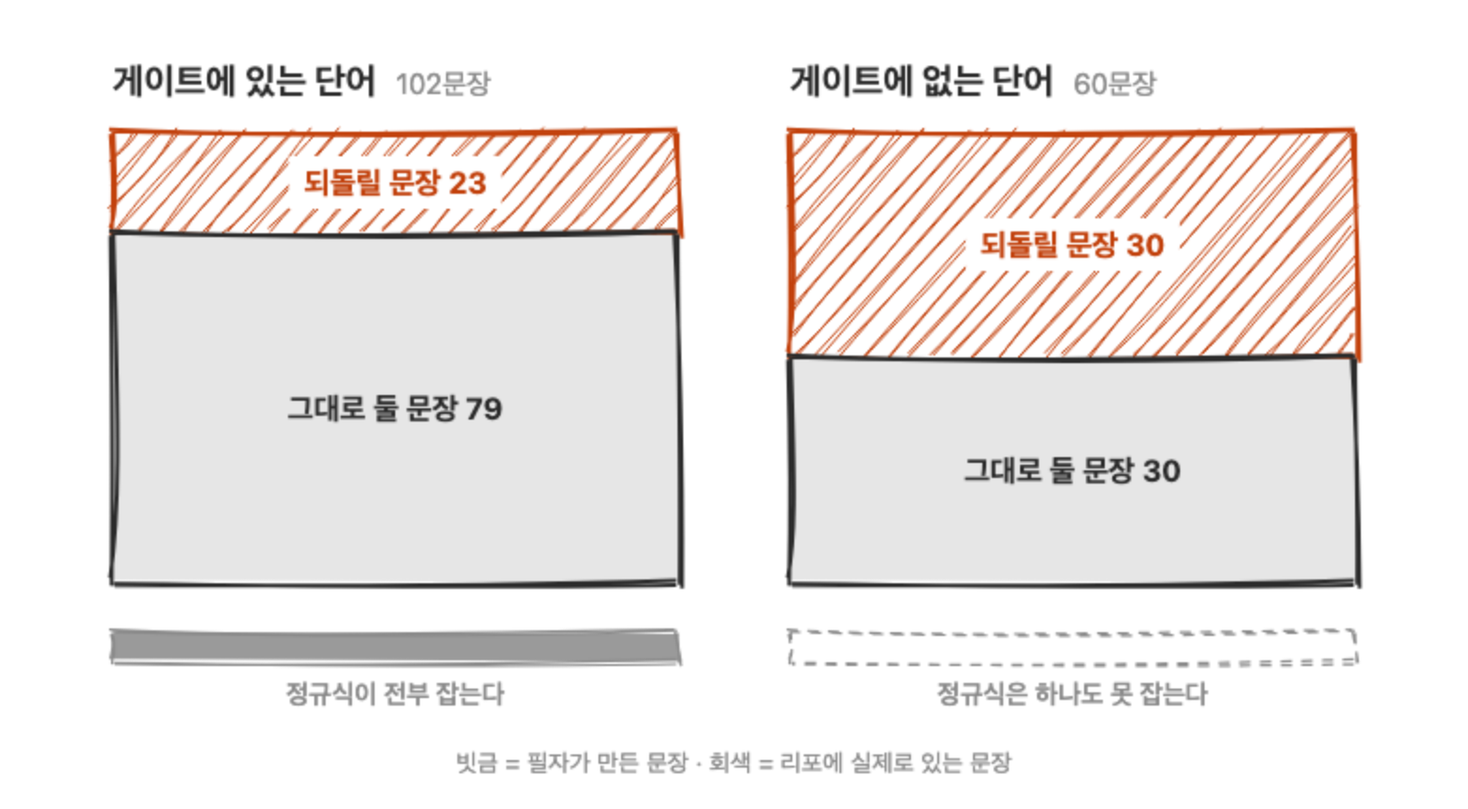
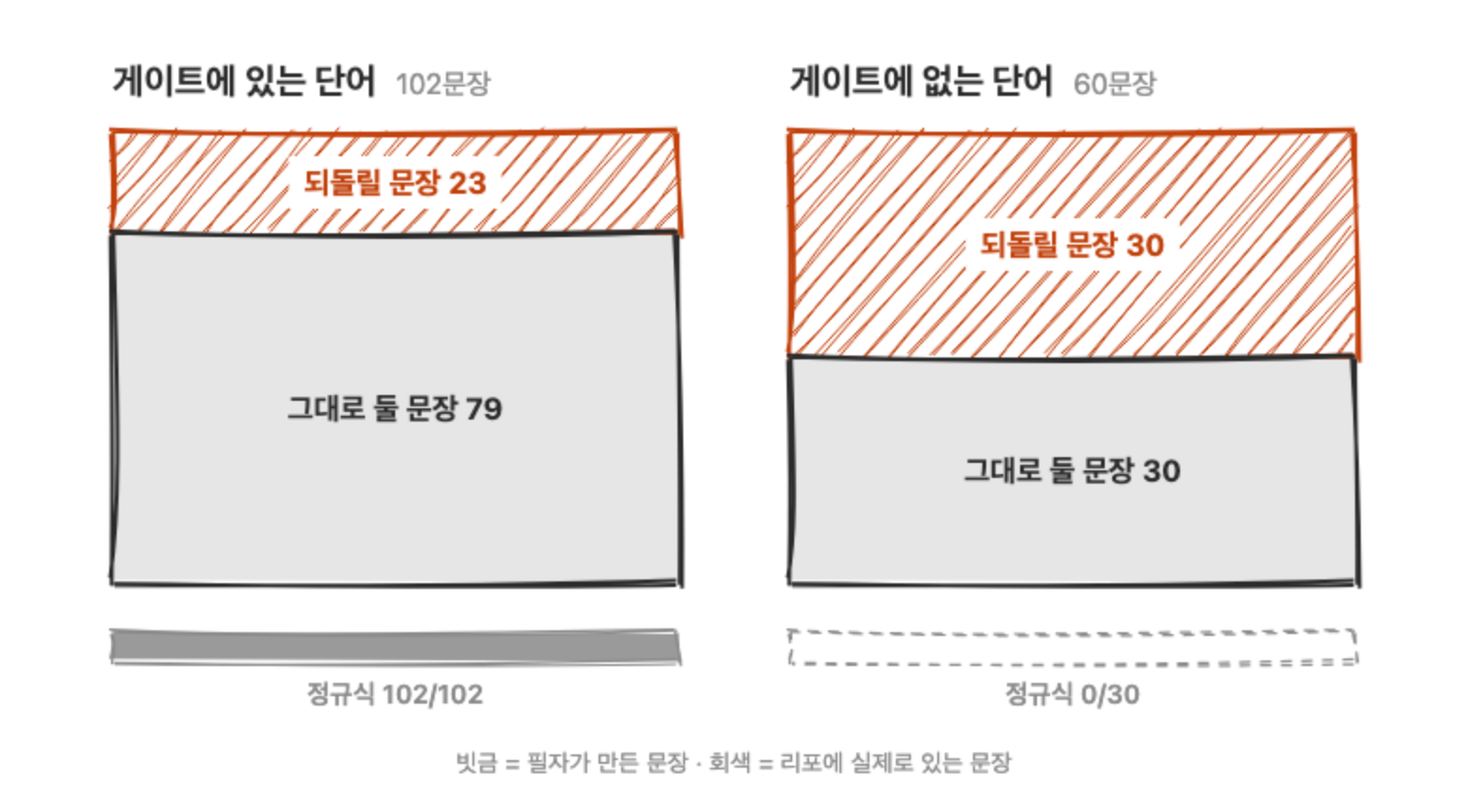
fix(content): take sentences out of 260922 figures and align 240706
Four 260922 figures keep only labels and numbers. The 240706
translations drop hedges the Korean does not have. write-post.md now
says generator HTML files are committed next to their PNGs.

Changed region(s): [[0.6154, 0.8465, 0.8308, 0.8767], [0.1846, 0.8465, 0.3692, 0.8767]]

diff --git a/content/260922/6.html b/content/260922/6.html
@@ -8,8 +8,8 @@ const F=(s,x,y,size,color,weight)=>{ctx.fillStyle=color||ink;ctx.font=(weight||'
 const W=(s,size,weight)=>{ctx.font=(weight||'')+' '+size+'px '+FONT;return ctx.measureText(s).width;};
 const C=(s,cx,y,size,color,weight)=>F(s,cx-W(s,size,weight)/2,y,size,color,weight);
 const arrow=(x1,y1,x2,y2,col,w)=>{const st={...o,stroke:col||ink,strokeWidth:w||2.4};rc.line(x1,y1,x2,y2,st);const a=Math.atan2(y2-y1,x2-x1),L=12;rc.line(x2,y2,x2-L*Math.cos(a-0.4),y2-L*Math.sin(a-0.4),st);rc.line(x2,y2,x2-L*Math.cos(a+0.4),y2-L*Math.sin(a+0.4),st);};
-const sets=[{x:60,t:'게이트에 있는 단어',s:'102문장',pos:23,neg:79,rx:'정규식이 전부 잡는다'},
-            {x:420,t:'게이트에 없는 단어',s:'60문장',pos:30,neg:30,rx:'정규식은 하나도 못 잡는다'}];
+const sets=[{x:60,t:'게이트에 있는 단어',s:'102문장',pos:23,neg:79,rx:'정규식 102/102'},
+            {x:420,t:'게이트에 없는 단어',s:'60문장',pos:30,neg:30,rx:'정규식 0/30'}];
 sets.forEach(({x,t,s,pos,neg,rx})=>{
   const w=300,top=70,h=240,tot=pos+neg,ph=Math.round(h*pos/tot),nh=h-ph;
   F(t,x,50,19,ink,'700'); F(s,x+W(t,19,'700')+10,50,15,gray);

diff --git a/content/260922/4.html b/content/260922/4.html
@@ -33,6 +33,4 @@ rc.line(ax(p),yA+10,ax(c),yB-10,{...o, strokeWidth:2.2, stroke:hi});
 // 회색: 1/3 아래는 버려진다
 rc.rectangle(ax(0),yA-6,ax(u)-ax(0),12,{...o, fill:'#e0e0e0', fillStyle:'solid', stroke:'none'});
 C('버린다',ax(u/2),yA+30,14,gray);
-// 한 줄 설명
-C("1/K 를 0 으로, 1 을 1 로 당겨 놓은 눈금. 순서는 그대로다",440,380,15,ink);
 </script>

diff --git a/content/260922/7.html b/content/260922/7.html
@@ -27,6 +27,5 @@ rows.forEach(({y,label,tok,rev,keep})=>{
 });
 // 화살표: 전부 되돌린다 → 대체로 둔다
 arrow(430,160,430,222,gray,2);
-F('답이 「전부 되돌린다」에서 「대체로 둔다」로 기울었다. 맞힌 수는 같다',30,360,14,ink);
 F('채운 부분 = 맞힌 문장',30,388,13,gray);
 </script>

diff --git a/content/260922/5.html b/content/260922/5.html
@@ -27,5 +27,4 @@ rows.forEach(([n,a,c,e],i)=>{
 // 확신도 몰림 표시
 const yTop=84-22, yBot=84+(rows.length-1)*46+22;
 rc.rectangle(ax(0.851),yTop,ax(0.906)-ax(0.851),yBot-yTop,{...o, stroke:hi, strokeWidth:1.4, strokeLineDash:[6,5]});
-C('확신도는 여기 몰려 있다',ax(0.878),yBot+42,14,hi,'600');
 </script>

diff --git a/content/240706/index.es.md b/content/240706/index.es.md
@@ -34,7 +34,7 @@ ZIP es un formato creado por Phil Katz en 1989. En su interior suele usar **DEFL
 
 ZIP **comprime cada archivo por separado**. Esta estructura, en la que cada archivo se comprime de forma independiente, se conoce como archivo no sólido (Non-solid Archive). El enfoque opuesto, que une todos los archivos en un solo flujo y lo comprime de una vez, es el archivo sólido. Gracias a la estructura no sólida, es posible extraer un archivo concreto sin descomprimir los demás. Como contrapartida, no aprovecha datos repetidos entre archivos, por lo que puede obtener una tasa inferior a tar.gz, que veremos más adelante.
 
-Windows, macOS, Linux y la mayoría de los sistemas operativos lo admiten sin instalar software adicional. Por eso es una opción segura cuando importa la compatibilidad entre plataformas.
+Windows, macOS, Linux y la mayoría de los sistemas operativos lo admiten sin instalar software adicional. Por eso es la opción más segura cuando importa la compatibilidad entre plataformas.
 
 <hr>
 
@@ -56,13 +56,13 @@ En entornos Unix y Linux se utiliza como un estándar para distribuir código fu
 
 ZSTD es un algoritmo desarrollado por Yann Collet en Meta, antes Facebook, y publicado como código abierto en 2016. Su gran ventaja es que **comprime y descomprime mucho más rápido, manteniendo una tasa comparable a GZIP**.
 
-Su funcionamiento interno tiene tres grandes etapas. Primero, un **buscador de coincidencias (Match Finder)** de la familia LZ77 detecta patrones repetidos. Después codifica los literales, las longitudes y los desplazamientos encontrados como **secuencias**. Por último, comprime esas secuencias mediante **codificación entrópica**. En lugar de depender únicamente de Huffman como GZIP, utiliza **FSE (Finite State Entropy)**, un codificador basado en ANS (Asymmetric Numeral Systems). ANS actualiza un único estado entero cada vez que procesa un símbolo y emite menos bits cuanto más frecuente es el símbolo. Su objetivo es lograr una tasa de compresión cercana a la de la codificación aritmética (Arithmetic Coding) con una velocidad cercana a la de Huffman. Huffman solo puede asignar un número entero de bits por símbolo; FSE puede representar probabilidades equivalentes a bits fraccionarios y acercarse más al límite teórico. (A pesar del nombre, la idea esencial es expresar los mismos datos con menos bits de una manera más inteligente.)
+Su funcionamiento interno tiene tres grandes etapas. Primero, un **buscador de coincidencias (Match Finder)** de la familia LZ77 detecta patrones repetidos. Después codifica los literales, las longitudes y los desplazamientos encontrados como **secuencias**. Por último, comprime esas secuencias mediante **codificación entrópica**. En lugar de la codificación Huffman de GZIP, utiliza **FSE (Finite State Entropy)**, un codificador basado en ANS (Asymmetric Numeral Systems). ANS actualiza un único estado entero cada vez que procesa un símbolo y emite menos bits cuanto más frecuente es el símbolo. Su objetivo es lograr una tasa de compresión cercana a la de la codificación aritmética (Arithmetic Coding) con una velocidad cercana a la de Huffman. Huffman solo puede asignar un número entero de bits por símbolo; FSE puede representar probabilidades equivalentes a bits fraccionarios y acercarse más al límite teórico. (A pesar del nombre, la idea esencial es expresar los mismos datos con menos bits de una manera más inteligente.)
 
 El buscador también cambia de estrategia según el nivel. Los niveles bajos, del 1 al 4, usan tablas hash sencillas para ganar velocidad. Los intermedios, del 5 al 12, comparan varios candidatos mediante una estrategia Lazy. Los altos, del 13 al 22, recurren a árboles binarios y programación dinámica para encontrar coincidencias casi óptimas. Esta escala permite usar niveles bajos para transmisión en tiempo real y altos para archivo.
 
-En el benchmark Silesia Corpus, ZSTD en su nivel predeterminado 3 comprime a unos 300 MB/s y descomprime a unos 1.200 MB/s. GZIP en el nivel 6 alcanza apenas 34 MB/s y 380 MB/s, respectivamente. **ZSTD comprime unas ocho veces más rápido y descomprime unas tres, mientras obtiene una tasa ligeramente superior: 3,17 frente a 3,09 de GZIP.** Estas cifras muestran de forma directa cómo mejora el compromiso tradicional.
+En el benchmark Silesia Corpus, ZSTD en su nivel predeterminado 3 comprime a unos 300 MB/s y descomprime a unos 1.200 MB/s. GZIP en el nivel 6 alcanza apenas 34 MB/s y 380 MB/s, respectivamente. **ZSTD comprime unas ocho veces más rápido y descomprime unas tres, y aun así su tasa es superior: 3,17 frente a 3,09 de GZIP.** Estas cifras muestran de forma directa cómo mejora el compromiso tradicional.
 
-Su adopción crece con rapidez. Se usa para comprimir módulos del kernel de Linux y de forma transparente en sistemas de archivos; distribuciones como Arch Linux, Fedora, Debian y Ubuntu lo han adoptado para sus paquetes. Desde la versión 1.5.7, publicada en febrero de 2025, la **compresión multihilo está activada de forma predeterminada** con hasta cuatro hilos, ampliando aún más la diferencia práctica frente al GZIP monohilo. AWS también ha explicado que redujo alrededor de un 30% el almacenamiento en S3 al migrar servicios internos de gzip a zstd.
+Su adopción crece con rapidez. Se usa para comprimir módulos del kernel de Linux y de forma transparente en sistemas de archivos; distribuciones como Arch Linux, Fedora, Debian y Ubuntu lo han adoptado como formato predeterminado de compresión de paquetes. Desde la versión 1.5.7, publicada en febrero de 2025, la **compresión multihilo está activada de forma predeterminada** con hasta cuatro hilos, ampliando aún más la diferencia práctica frente al GZIP monohilo. AWS también ha explicado que redujo alrededor de un 30% el almacenamiento en S3 al migrar servicios internos de gzip a zstd.
 
 <hr>
 
@@ -78,7 +78,7 @@ BZIP2 comprime mediante una cadena de transformaciones.
 
 BZIP2 proporciona una tasa mayor que GZIP, pero tanto la compresión como la descompresión son más lentas. Se ha usado para archivo cuando el tamaño importaba más que la velocidad.
 
-Su última versión fue la 1.0.8, publicada en 2019, y el desarrollo activo prácticamente se ha detenido. A medida que los benchmarks muestran que ZSTD supera a BZIP2 en tasa y velocidad, los proyectos nuevos tienden a elegir ZSTD.
+Su última versión fue la 1.0.8, publicada en 2019, y no está en desarrollo activo. A medida que los benchmarks muestran que ZSTD supera a BZIP2 en tasa y velocidad, los proyectos nuevos tienden a elegir ZSTD.
 
 <hr>
 
@@ -100,7 +100,7 @@ Su organización interna es sorprendentemente sencilla. Todo se procesa en **blo
 
 La propiedad clave es que TAR conserva **los metadatos del sistema de archivos Unix**, como permisos, propietarios, marcas de tiempo y enlaces simbólicos. ZIP no siempre conserva perfectamente estos datos específicos de Unix, por lo que TAR suele encajar mejor en despliegues de servidor.
 
-TAR no reduce el tamaño por sí mismo; las cabeceras y el relleno pueden incluso aumentarlo ligeramente. La compresión real se consigue al combinarlo con GZIP, BZIP2, XZ o ZSTD. De ahí proceden extensiones como `.tar.gz`, `.tar.bz2`, `.tar.xz` y `.tar.zst`. TAR se encarga de “agrupar” y la otra herramienta de “reducir”, un ejemplo clásico de la filosofía Unix de “hacer bien una sola cosa”.
+TAR no reduce el tamaño por sí mismo; de hecho, las cabeceras y el relleno lo hacen ligeramente mayor que el original. La compresión real se consigue al combinarlo con GZIP, BZIP2, XZ o ZSTD. De ahí proceden extensiones como `.tar.gz`, `.tar.bz2`, `.tar.xz` y `.tar.zst`. TAR se encarga de “agrupar” y la otra herramienta de “reducir”, un ejemplo clásico de la filosofía Unix de “hacer bien una sola cosa”.
 
 Es el método estándar de archivado en Unix/Linux, mientras que Windows puede necesitar software adicional como 7-Zip.
 
@@ -137,7 +137,7 @@ Añadí esta sección en 2026. Entonces escogí tar.gz por su compatibilidad y e
 
 Si afrontara hoy la misma situación, consideraría seriamente **tar.zst (TAR + ZSTD)**. Recordemos las cifras anteriores.
 
-GZIP comprime a 34 MB/s en su nivel predeterminado y ZSTD a 300 MB/s. Para una carpeta de 2 GB, un cálculo simple da unos 60 segundos con GZIP y siete con ZSTD. Si además contamos el multihilo activado por defecto desde ZSTD v1.5.7, con hasta cuatro hilos, la diferencia real puede ser mayor. En una canalización CI/CD esos segundos se acumulan en cada despliegue.
+GZIP comprime a 34 MB/s en su nivel predeterminado y ZSTD a 300 MB/s. Para una carpeta de 2 GB, un cálculo simple da unos 60 segundos con GZIP y siete con ZSTD. Si además contamos el multihilo activado por defecto desde ZSTD v1.5.7, con hasta cuatro hilos, el tiempo real es todavía menor. En una canalización CI/CD esta diferencia se acumula en cada despliegue, así que no es una cifra despreciable.
 
 ```sh
 # tar.zst 생성 (멀티스레드 자동 활용)

diff --git a/content/240706/index.pt-BR.md b/content/240706/index.pt-BR.md
@@ -34,7 +34,7 @@ ZIP é um formato criado por Phil Katz em 1989. Internamente, costuma usar **DEF
 
 O ZIP **comprime cada arquivo individualmente**. Essa estrutura, em que cada arquivo é comprimido separadamente, é chamada de arquivo não sólido (Non-solid Archive). A abordagem oposta, que junta todos os arquivos em um único fluxo e o comprime de uma vez, é o arquivo sólido. Graças à estrutura não sólida, é possível extrair um arquivo específico sem descompactar os demais. Em contrapartida, não aproveita dados duplicados entre arquivos, por isso sua taxa pode ser inferior à do tar.gz, que veremos adiante.
 
-Windows, macOS, Linux e a maioria dos sistemas operacionais oferecem suporte sem software adicional. Por isso, é uma escolha segura quando a compatibilidade entre plataformas é importante.
+Windows, macOS, Linux e a maioria dos sistemas operacionais oferecem suporte sem software adicional. Por isso, é a escolha mais segura quando a compatibilidade entre plataformas é importante.
 
 <hr>
 
@@ -56,13 +56,13 @@ Em ambientes Unix e Linux, GZIP é usado como padrão para distribuir código-fo
 
 ZSTD é um algoritmo desenvolvido por Yann Collet na Meta, antiga Facebook, e publicado como código aberto em 2016. Sua principal vantagem é **comprimir e descomprimir muito mais rápido, mantendo uma taxa comparável à do GZIP**.
 
-Seu funcionamento tem três grandes etapas. Primeiro, um **localizador de correspondências (Match Finder)** da família LZ77 detecta padrões repetidos na entrada. Depois, codifica literais, comprimentos e deslocamentos como **sequências**. Por fim, comprime essas sequências com **codificação de entropia**. Em vez de depender apenas de Huffman como o GZIP, usa **FSE (Finite State Entropy)**, um codificador baseado em ANS (Asymmetric Numeral Systems). O ANS atualiza um único estado inteiro a cada símbolo processado e emite menos bits quanto mais frequente for o símbolo. O objetivo é alcançar uma taxa de compressão próxima à da codificação aritmética (Arithmetic Coding) com velocidade próxima à de Huffman. Huffman só consegue atribuir números inteiros de bits por símbolo; o FSE representa probabilidades equivalentes a bits fracionários e se aproxima mais do limite teórico. (Apesar do nome grandioso, a ideia é apenas expressar os mesmos dados com menos bits de forma mais inteligente.)
+Seu funcionamento tem três grandes etapas. Primeiro, um **localizador de correspondências (Match Finder)** da família LZ77 detecta padrões repetidos na entrada. Depois, codifica literais, comprimentos e deslocamentos como **sequências**. Por fim, comprime essas sequências com **codificação de entropia**. Em vez da codificação de Huffman do GZIP, usa **FSE (Finite State Entropy)**, um codificador baseado em ANS (Asymmetric Numeral Systems). O ANS atualiza um único estado inteiro a cada símbolo processado e emite menos bits quanto mais frequente for o símbolo. O objetivo é alcançar uma taxa de compressão próxima à da codificação aritmética (Arithmetic Coding) com velocidade próxima à de Huffman. Huffman só consegue atribuir números inteiros de bits por símbolo; o FSE representa probabilidades equivalentes a bits fracionários e se aproxima mais do limite teórico. (Apesar do nome grandioso, a ideia é apenas expressar os mesmos dados com menos bits de forma mais inteligente.)
 
 O localizador também muda de estratégia conforme o nível. Os níveis baixos, de 1 a 4, usam tabelas hash simples para priorizar velocidade. Os intermediários, de 5 a 12, comparam vários candidatos por uma estratégia Lazy. Os altos, de 13 a 22, usam árvores binárias e programação dinâmica para encontrar correspondências quase ideais. Essa faixa permite aplicar níveis baixos em transmissão em tempo real e altos em arquivamento.
 
-No benchmark Silesia Corpus, o nível padrão 3 do ZSTD comprime a cerca de 300 MB/s e descomprime a aproximadamente 1.200 MB/s. Já o nível padrão 6 do GZIP alcança apenas 34 MB/s e 380 MB/s. **O ZSTD comprime cerca de oito vezes mais rápido e descomprime três vezes mais rápido, enquanto sua taxa é ligeiramente melhor: 3,17 contra 3,09 do GZIP.** Esses números mostram com clareza como o ZSTD melhora o compromisso tradicional.
+No benchmark Silesia Corpus, o nível padrão 3 do ZSTD comprime a cerca de 300 MB/s e descomprime a aproximadamente 1.200 MB/s. Já o nível padrão 6 do GZIP alcança apenas 34 MB/s e 380 MB/s. **O ZSTD comprime cerca de oito vezes mais rápido e descomprime cerca de três vezes mais rápido, e ainda assim sua taxa é superior: 3,17 contra 3,09 do GZIP.** Esses números mostram com clareza como o ZSTD melhora o compromisso tradicional.
 
-A adoção cresceu rapidamente. O ZSTD é usado na compressão de módulos do kernel Linux e na compressão transparente de sistemas de arquivos; distribuições como Arch Linux, Fedora, Debian e Ubuntu o adotaram para pacotes. Desde a versão 1.5.7, lançada em fevereiro de 2025, a **compressão multithread fica ativada por padrão** com até quatro threads, ampliando ainda mais a diferença prática em relação ao GZIP single-thread. A AWS também informou ter reduzido em cerca de 30% o armazenamento no S3 ao migrar serviços internos de gzip para zstd.
+A adoção cresceu rapidamente. O ZSTD é usado na compressão de módulos do kernel Linux e na compressão transparente de sistemas de arquivos; distribuições como Arch Linux, Fedora, Debian e Ubuntu o adotaram como formato padrão de compressão de pacotes. Desde a versão 1.5.7, lançada em fevereiro de 2025, a **compressão multithread fica ativada por padrão** com até quatro threads, ampliando ainda mais a diferença prática em relação ao GZIP single-thread. A AWS também informou ter reduzido em cerca de 30% o armazenamento no S3 ao migrar serviços internos de gzip para zstd.
 
 <hr>
 
@@ -78,7 +78,7 @@ O BZIP2 comprime dados por uma sequência de transformações.
 
 O BZIP2 oferece taxa maior que o GZIP, mas tanto a compressão quanto a descompressão são mais lentas. Ele foi usado para arquivamento quando o tamanho importava mais do que a velocidade.
 
-Sua última versão foi a 1.0.8, em 2019, e o desenvolvimento ativo praticamente parou. Conforme benchmarks mostram que o ZSTD supera o BZIP2 em taxa e velocidade, projetos novos tendem a escolher ZSTD.
+Sua última versão foi a 1.0.8, em 2019, e não está em desenvolvimento ativo. Conforme benchmarks mostram que o ZSTD supera o BZIP2 em taxa e velocidade, projetos novos tendem a escolher ZSTD.
 
 <hr>
 
@@ -100,7 +100,7 @@ Sua organização interna é surpreendentemente simples. Tudo é processado em *
 
 A característica principal é preservar **metadados do sistema de arquivos Unix**, incluindo permissões, propriedade, timestamps e links simbólicos. ZIP nem sempre mantém perfeitamente esses dados específicos do Unix, por isso TAR costuma ser mais adequado para deploys em servidores.
 
-TAR não reduz o tamanho por conta própria; cabeçalhos e padding podem até deixar o resultado um pouco maior. A compressão real ocorre ao combiná-lo com GZIP, BZIP2, XZ ou ZSTD. É daí que vêm extensões como `.tar.gz`, `.tar.bz2`, `.tar.xz` e `.tar.zst`. TAR cuida de “agrupar”, e a outra ferramenta, de “reduzir”: um exemplo clássico da filosofia Unix de “fazer bem uma única coisa”.
+TAR não reduz o tamanho por conta própria; na verdade, cabeçalhos e padding deixam o resultado um pouco maior que o original. A compressão real ocorre ao combiná-lo com GZIP, BZIP2, XZ ou ZSTD. É daí que vêm extensões como `.tar.gz`, `.tar.bz2`, `.tar.xz` e `.tar.zst`. TAR cuida de “agrupar”, e a outra ferramenta, de “reduzir”: um exemplo clássico da filosofia Unix de “fazer bem uma única coisa”.
 
 É o método padrão de arquivamento em Unix/Linux, enquanto o Windows pode precisar de software adicional, como 7-Zip.
 
@@ -137,7 +137,7 @@ Adicionei esta seção em 2026. Na época, escolhi tar.gz por compatibilidade e 
 
 Se eu enfrentasse a mesma situação hoje, consideraria seriamente **tar.zst (TAR + ZSTD)**. Vale lembrar os números anteriores.
 
-O GZIP comprime a 34 MB/s no nível padrão, enquanto o ZSTD chega a 300 MB/s. Para uma pasta de 2 GB, uma conta simples resulta em aproximadamente 60 segundos com GZIP e sete com ZSTD. Considerando ainda o multithreading ativado por padrão desde o ZSTD v1.5.7, com até quatro threads, a diferença prática pode ser maior. Em uma pipeline de CI/CD, esses segundos se acumulam a cada deploy.
+O GZIP comprime a 34 MB/s no nível padrão, enquanto o ZSTD chega a 300 MB/s. Para uma pasta de 2 GB, uma conta simples resulta em aproximadamente 60 segundos com GZIP e sete com ZSTD. Considerando ainda o multithreading ativado por padrão desde o ZSTD v1.5.7, com até quatro threads, o tempo real fica ainda menor. Em uma pipeline de CI/CD, essa diferença se acumula a cada deploy, então não é um número desprezível.
 
 ```sh
 # tar.zst 생성 (멀티스레드 자동 활용)

diff --git a/content/240706/index.en.md b/content/240706/index.en.md
@@ -56,11 +56,11 @@ GZIP has long been a standard for distributing source code, compressing logs, an
 
 ZSTD is a compression algorithm developed by Yann Collet at Meta, formerly Facebook, and released as open source in 2016. Its main advantage is **dramatically faster compression and decompression while retaining a ratio comparable to GZIP**.
 
-ZSTD has three broad stages. First, an LZ77-family **match finder** detects repeated patterns in the input. It then encodes the results, including literals, match lengths, and offsets, as **sequences**. Finally, it compresses those sequences with **entropy coding**. Instead of relying only on GZIP-style Huffman coding, ZSTD uses **FSE (Finite State Entropy)**. FSE is an entropy coder based on ANS (Asymmetric Numeral Systems). ANS updates a single integer state each time it processes a symbol and emits fewer bits for more frequent symbols. Its goal is a compression ratio close to arithmetic coding at a speed close to Huffman coding. Huffman coding can assign only an integer number of bits per symbol, while FSE can represent fractional-bit probabilities and get closer to the theoretical optimum. (Despite the grand name, the key idea is simply a smarter way to express the same data with fewer bits.)
+ZSTD has three broad stages. First, an LZ77-family **match finder** detects repeated patterns in the input. It then encodes the results, including literals, match lengths, and offsets, as **sequences**. Finally, it compresses those sequences with **entropy coding**. Instead of GZIP-style Huffman coding, ZSTD uses **FSE (Finite State Entropy)**. FSE is an entropy coder based on ANS (Asymmetric Numeral Systems). ANS updates a single integer state each time it processes a symbol and emits fewer bits for more frequent symbols. Its goal is a compression ratio close to arithmetic coding at a speed close to Huffman coding. Huffman coding can assign only an integer number of bits per symbol, while FSE can represent fractional-bit probabilities and get closer to the theoretical optimum. (Despite the grand name, the key idea is simply a smarter way to express the same data with fewer bits.)
 
 The match finder also changes strategy with the compression level. Lower levels, from 1 to 4, use simple hash tables for speed. Middle levels, from 5 to 12, compare multiple candidates and lazily choose a better match. Higher levels, from 13 to 22, use binary trees and dynamic programming to find near-optimal matches. This broad range makes it possible to choose a low level for real-time transfer and a high level for archival work.
 
-On the Silesia Corpus benchmark, ZSTD’s default level 3 compresses at around 300 MB/s and decompresses at around 1,200 MB/s. GZIP’s default level 6 reaches only around 34 MB/s for compression and 380 MB/s for decompression. **ZSTD is roughly eight times faster at compression and three times faster at decompression, while its compression ratio is slightly better at 3.17 versus GZIP’s 3.09.** These figures make ZSTD’s improved trade-off easy to see.
+On the Silesia Corpus benchmark, ZSTD’s default level 3 compresses at around 300 MB/s and decompresses at around 1,200 MB/s. GZIP’s default level 6 reaches only around 34 MB/s for compression and 380 MB/s for decompression. **ZSTD is roughly eight times faster at compression and three times faster at decompression, while its compression ratio is even ahead at 3.17 versus GZIP’s 3.09.** These figures make ZSTD’s improved trade-off easy to see.
 
 Adoption has expanded quickly. ZSTD is used for Linux kernel module compression and transparent filesystem compression, and major distributions including Arch Linux, Fedora, Debian, and Ubuntu have adopted it as a default package format. Starting with v1.5.7, released in February 2025, **multithreaded compression is enabled by default** with up to four threads, further widening the practical speed gap with single-threaded GZIP. AWS has also reported reducing S3 storage by about 30% after switching internal services from gzip to zstd.
 
@@ -78,7 +78,7 @@ BZIP2 compresses data through a pipeline of transformations.
 
 BZIP2 offers a higher compression ratio than GZIP, but both compression and decompression are slower. It has traditionally been used for archival work where size matters more than speed.
 
-Its latest release was v1.0.8 in 2019, and active development has largely stopped. As benchmarks increasingly show ZSTD outperforming BZIP2 in both ratio and speed, new projects are more likely to choose ZSTD.
+Its latest release was v1.0.8 in 2019, and it is not under active development. As benchmarks increasingly show ZSTD outperforming BZIP2 in both ratio and speed, new projects are more likely to choose ZSTD.
 
 <hr>
 
@@ -100,7 +100,7 @@ TAR’s internal structure is surprisingly simple. Everything is processed in **
 
 The key property is that TAR preserves **Unix filesystem metadata**, including permissions, ownership, timestamps, and symbolic links. ZIP does not always preserve this Unix-specific metadata perfectly, which often makes TAR a better fit for server deployment.
 
-TAR does not make data smaller by itself. Its headers and padding can actually make the result slightly larger. Compression is performed by combining TAR with GZIP, BZIP2, XZ, ZSTD, or another compressor. That is why extensions such as `.tar.gz`, `.tar.bz2`, `.tar.xz`, and `.tar.zst` exist. TAR handles “bundling,” while the compression tool handles “shrinking,” a classic example of the Unix philosophy to “do one thing well.”
+TAR does not make data smaller by itself. In fact, its headers and padding make the result slightly larger than the original. Compression is performed by combining TAR with GZIP, BZIP2, XZ, ZSTD, or another compressor. That is why extensions such as `.tar.gz`, `.tar.bz2`, `.tar.xz`, and `.tar.zst` exist. TAR handles “bundling,” while the compression tool handles “shrinking,” a classic example of the Unix philosophy to “do one thing well.”
 
 TAR is standard in Unix and Linux environments, while Windows may require additional software such as 7-Zip.
 
@@ -137,7 +137,7 @@ I added this section in 2026. I chose tar.gz at the time because of its compatib
 
 If I faced the same situation today, however, I would seriously consider **tar.zst (TAR + ZSTD)**. Recall the benchmark figures above.
 
-GZIP’s default compression speed is 34 MB/s, while ZSTD’s default is 300 MB/s. For a 2 GB build directory, a simple calculation gives about 60 seconds for GZIP and around seven seconds for ZSTD. With multithreading enabled by default in ZSTD v1.5.7, using as many as four threads, the practical difference can be even larger. In a CI/CD pipeline, those seconds accumulate on every deployment cycle.
+GZIP’s default compression speed is 34 MB/s, while ZSTD’s default is 300 MB/s. For a 2 GB build directory, a simple calculation gives about 60 seconds for GZIP and around seven seconds for ZSTD. With multithreading enabled by default in ZSTD v1.5.7, using as many as four threads, the time it actually takes is shorter still. In a CI/CD pipeline, this difference accumulates on every deployment cycle, so it is not a number you can ignore.
 
 ```sh
 # tar.zst 생성 (멀티스레드 자동 활용)
